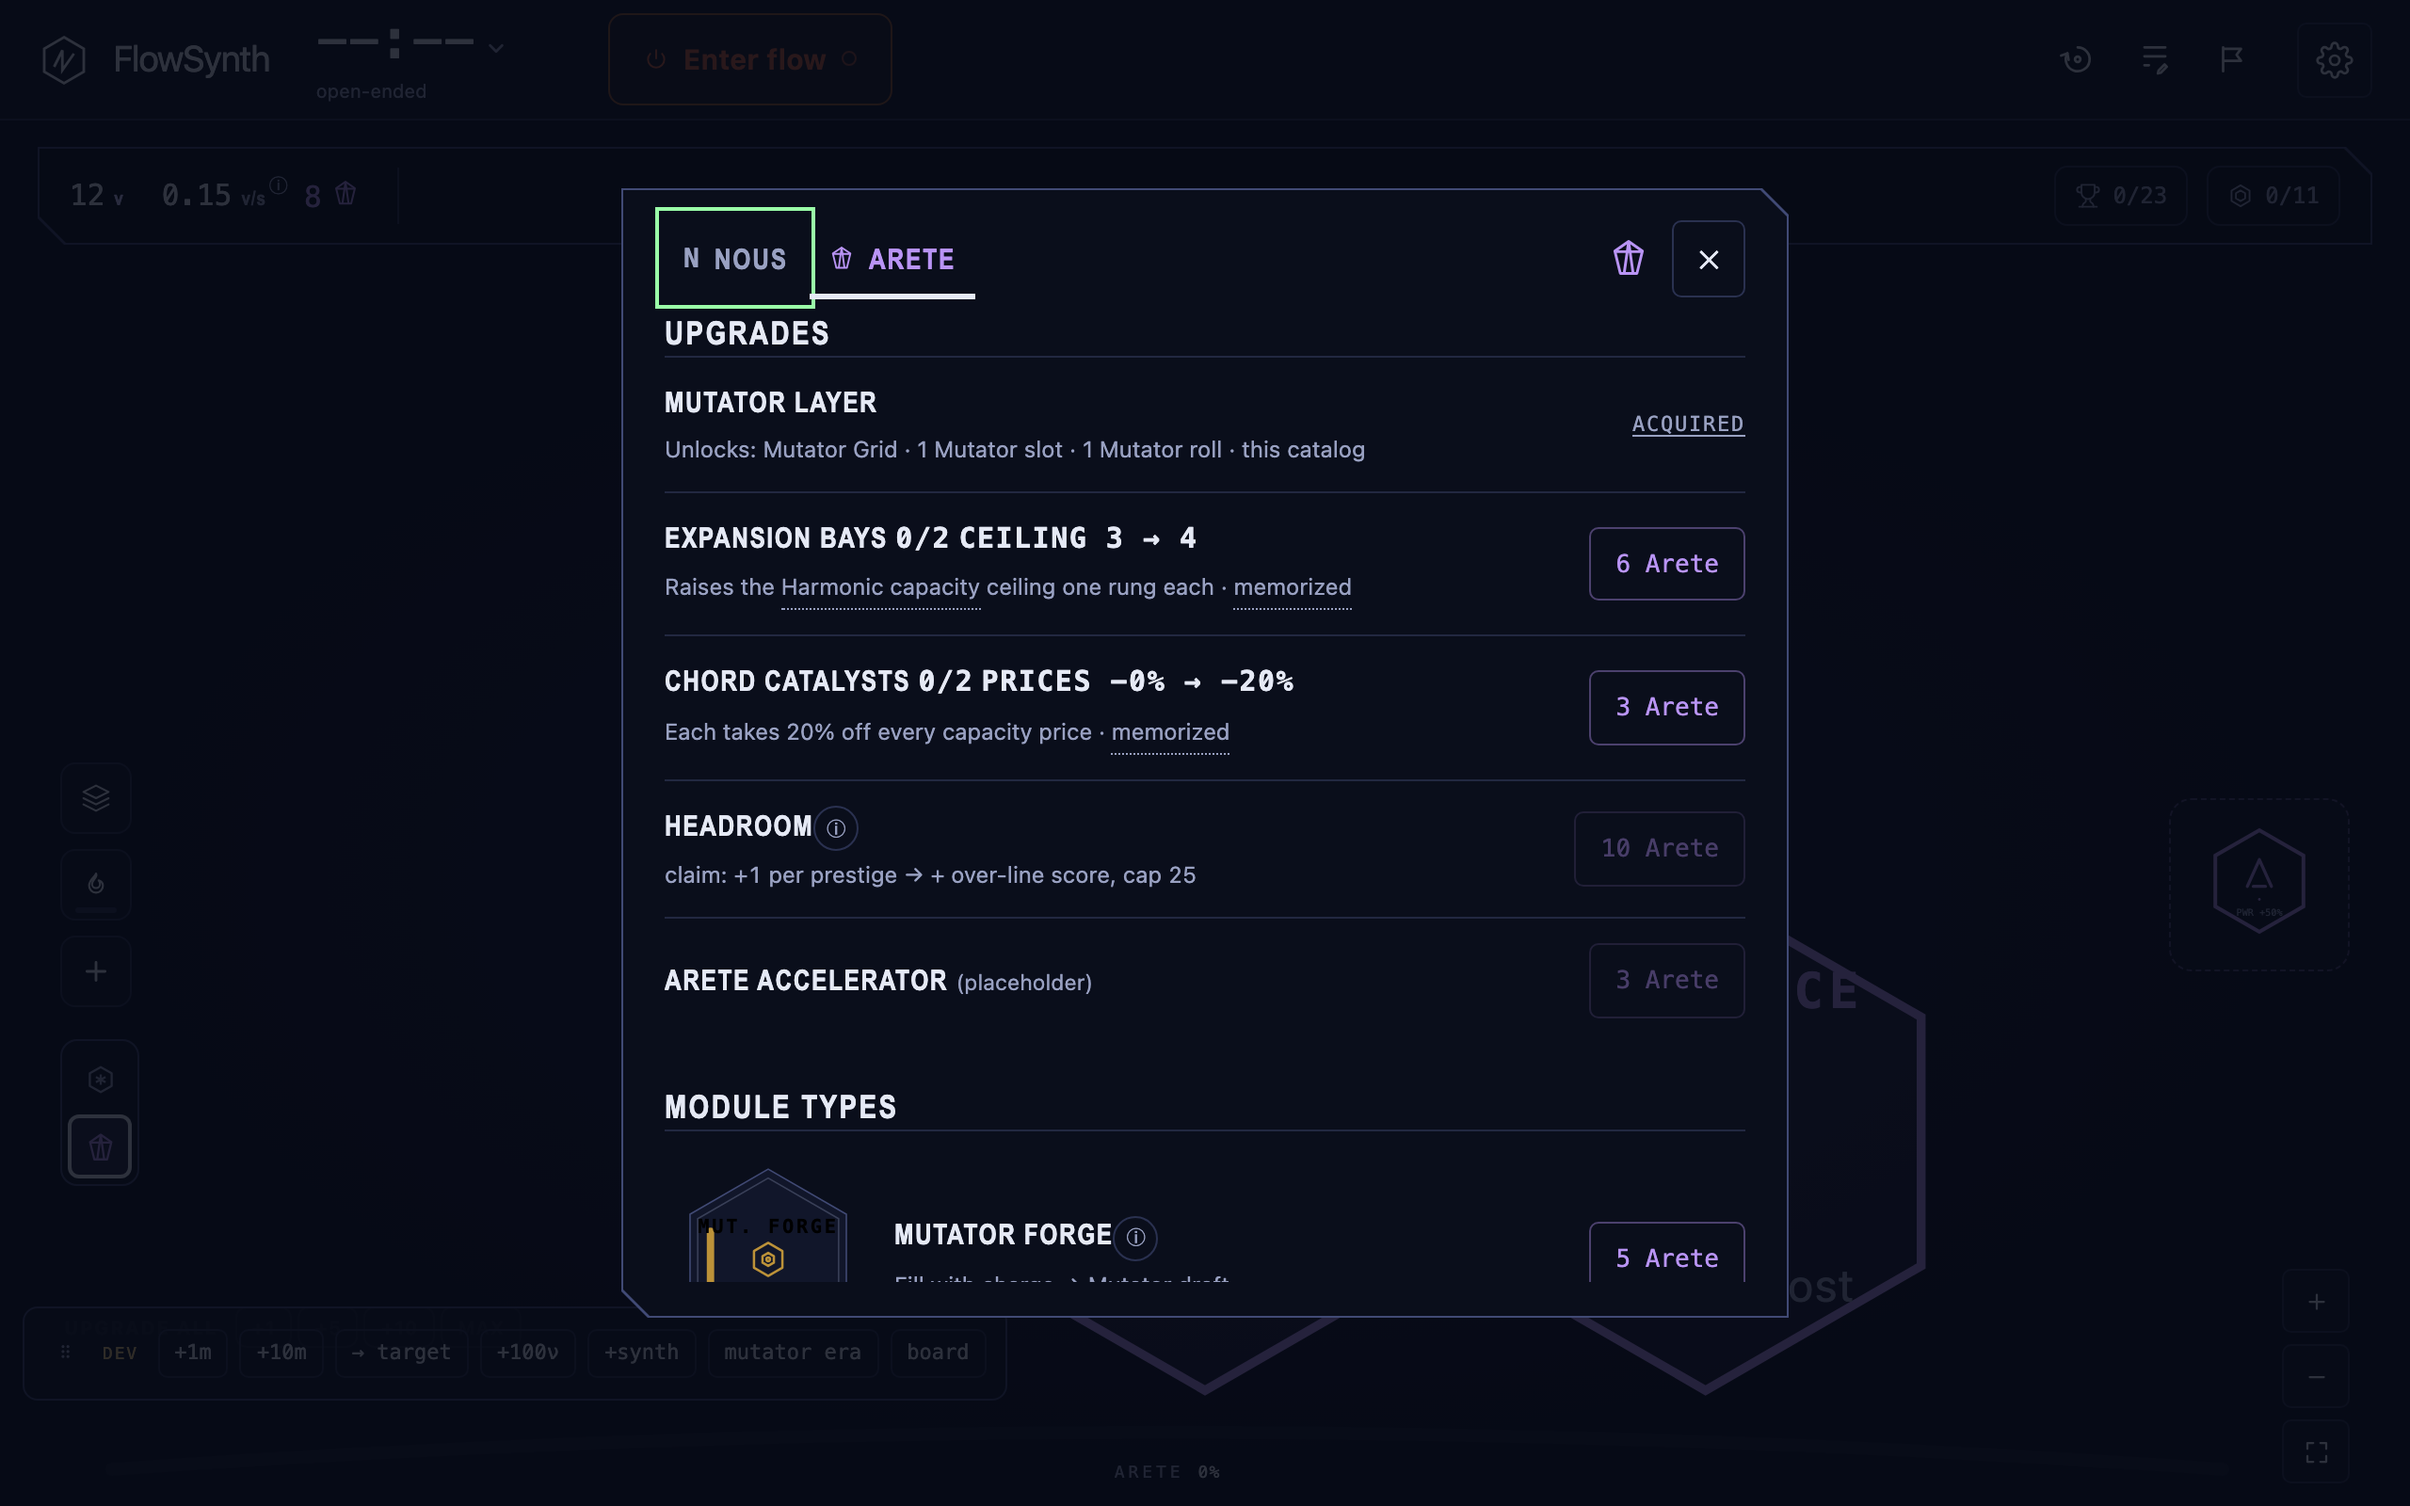
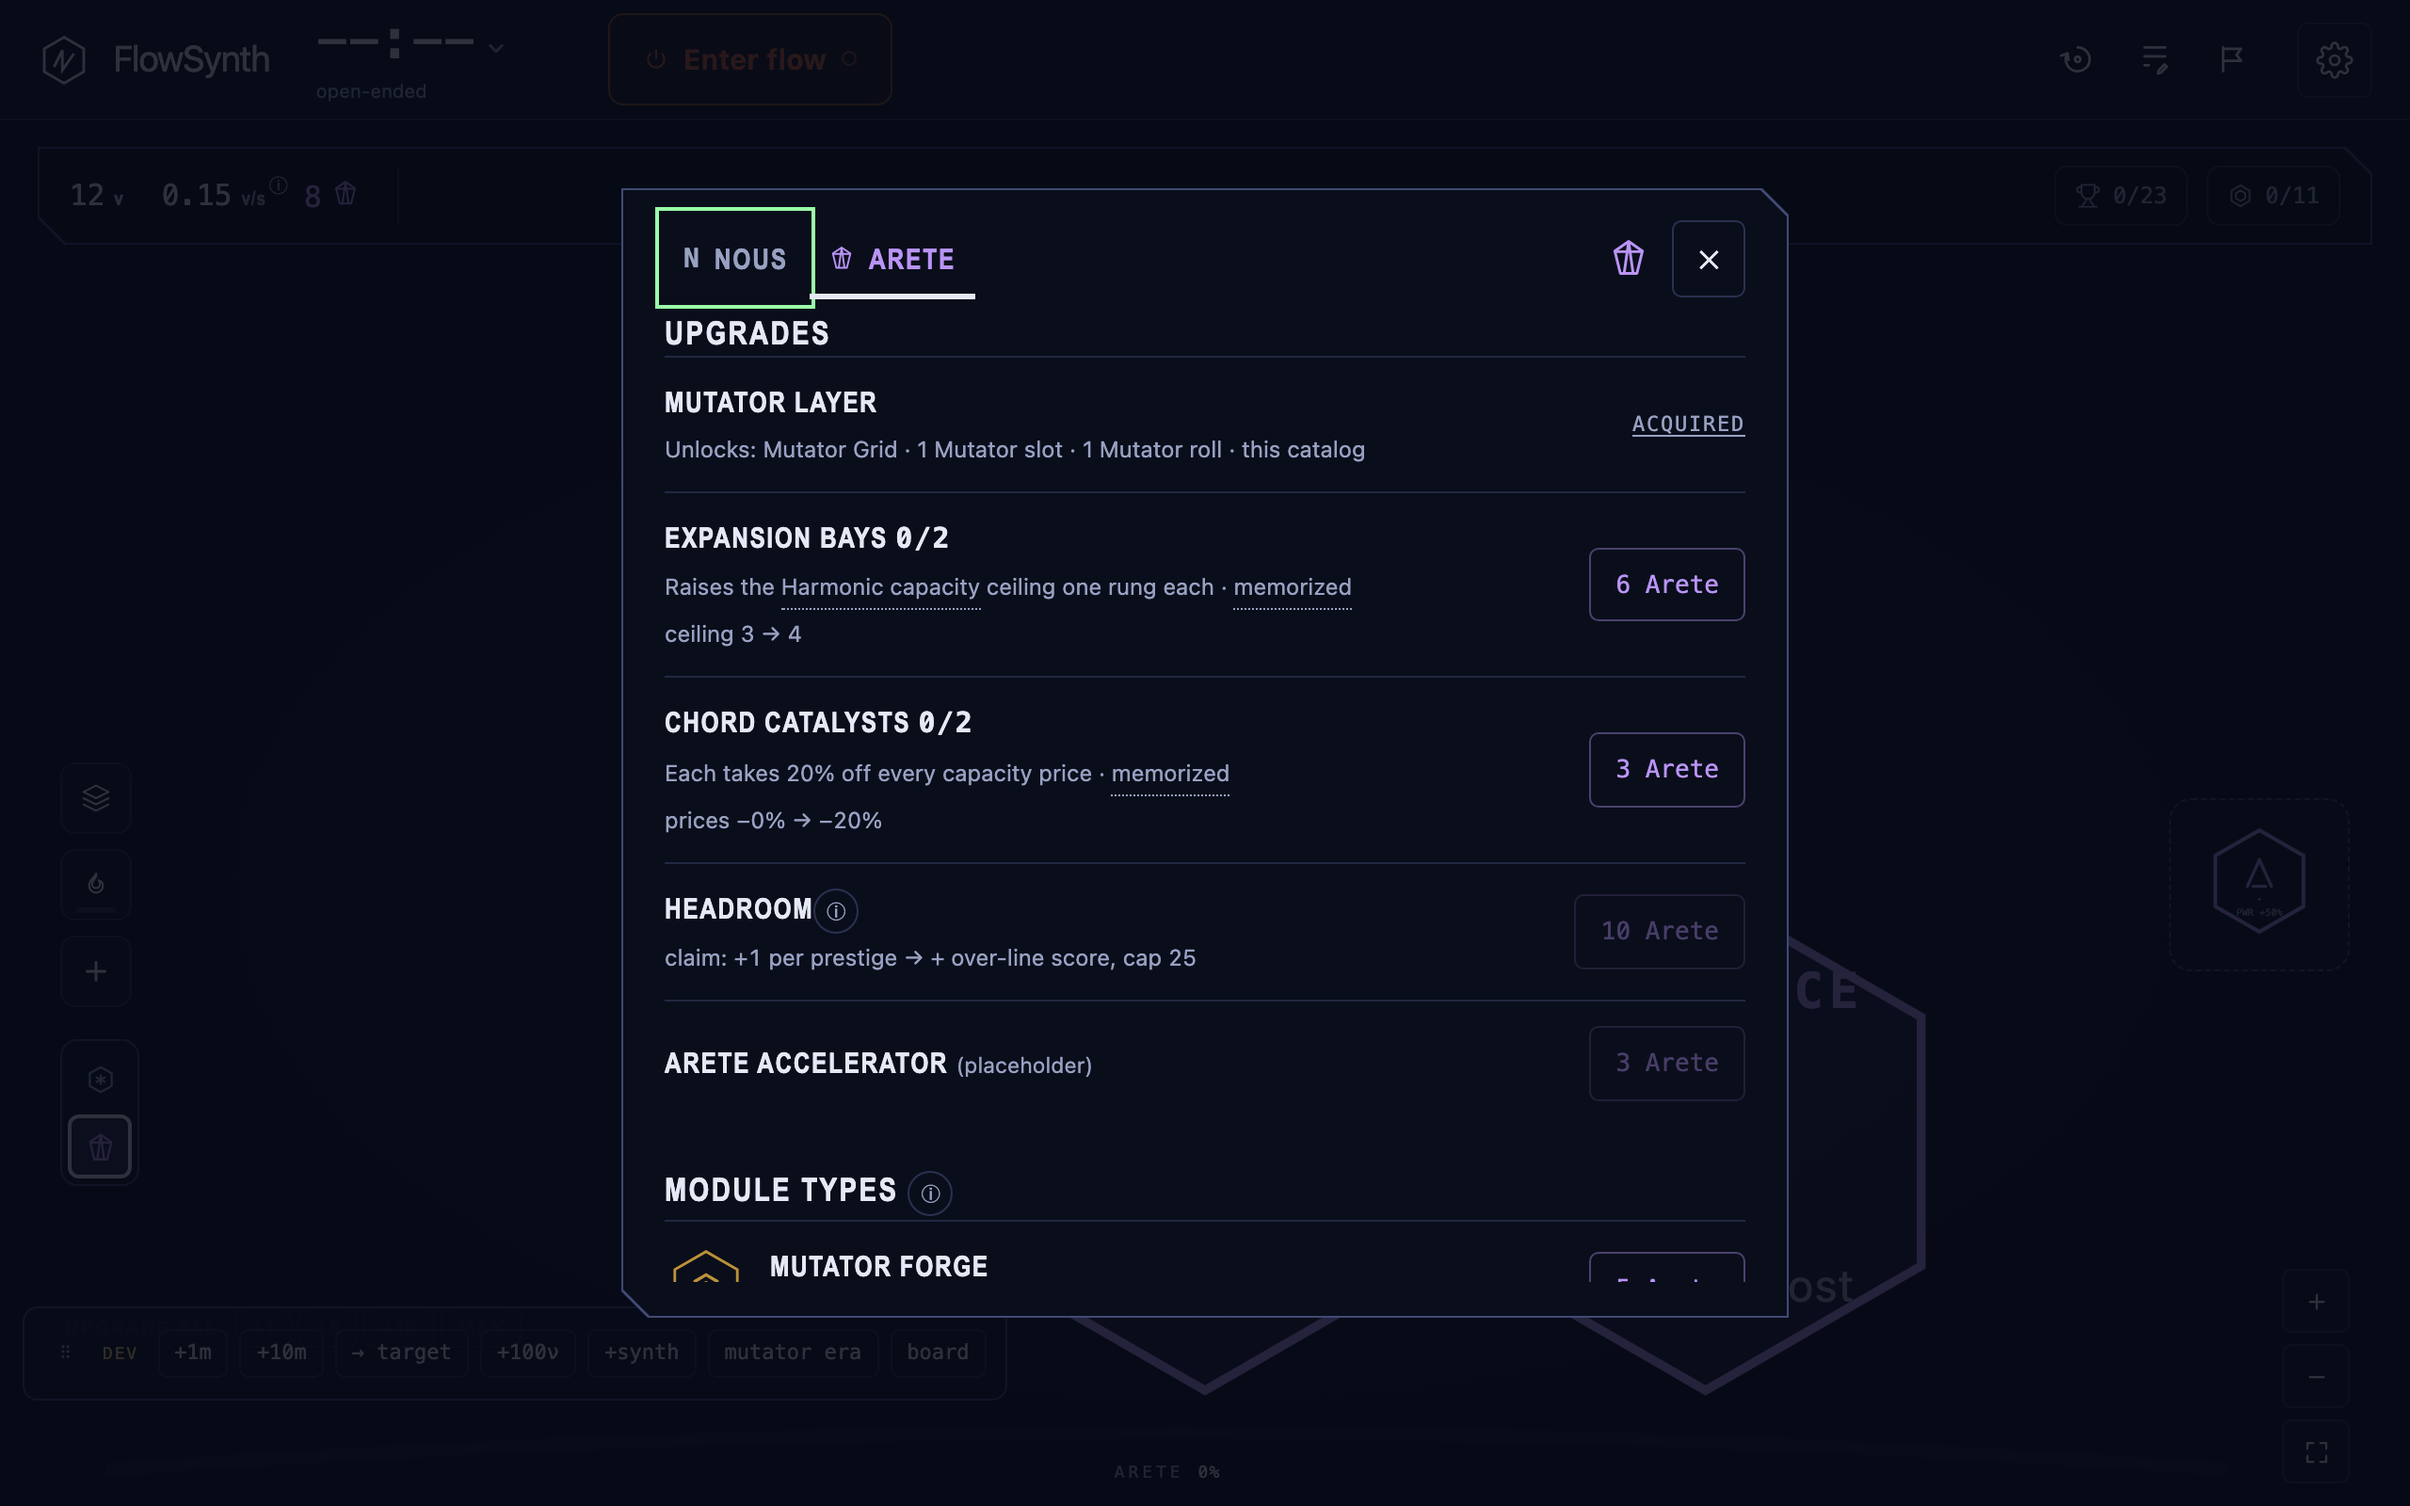
Evidence for the delta-line and preview pass

diff --git a/docs/evidence/310-catalog-products/README.md b/docs/evidence/310-catalog-products/README.md
@@ -16,25 +16,28 @@ entry owned, illustrative balances and ladder positions.
 ## The renamed surfaces
 
 - [Desktop nous](desktop-nous-poly-expander.png) and
-  [phone nous](phone-nous-poly-expander.png): the capacity row is headed
-  **Poly Expander**, the mono delta `1/3 → 2/3` reading the before → after,
-  and no restating small-line — the blank-module preview (a bare chassis
-  wearing `0/2`, the board's own used/total read) shows the purchase's
-  outcome instead. Price rides the buy button alone, muted here (`0 ν` in
-  the purse) with its practice countdown.
+  [phone nous](phone-nous-poly-expander.png): the nous face in register —
+  starter-shelf rows carry the simplified module preview (the tray tile's
+  category-hued hex and glyph), the capacity row is headed **Poly
+  Expander** with the mono delta `1/3 → 2/3` on its own line beside the
+  blank-module preview, and the acquisition paragraph is gone — the Show
+  acquired toggle's ⓘ glosses `Roll copies stay as combination material`.
+  Price rides the buy button alone, muted here (`0 ν` in the purse) with
+  its practice countdown.
 - [Desktop upgrades](desktop-arete-upgrades.png) and
   [phone upgrades](phone-arete-upgrades.png): the face holds two sections —
   **Upgrades** (the entry's ACQUIRED rewards line, Expansion Bays, Chord
   Catalysts, Headroom, the inert Accelerator placeholder) and **Module
-  Types**. Each product is one entry bought twice: owned figure, the mono
-  delta (`ceiling 3 → 4`, `prices −0% → −20%`), next price on the button,
-  effect line one line with hoverable terms. Headroom carries the honest
-  delta — the claim rule with its cap figure, since the next era's
-  over-line score is not knowable at purchase.
+  Types**. Each product is one entry bought twice: owned figure on the
+  heading, one effect line with hoverable terms, and the mono delta on its
+  own line (`ceiling 3 → 4`, `prices −0% → −20%`, Headroom's honest
+  `claim: +1 per prestige → + over-line score, cap 25` — the next era's
+  over-line score is not knowable at purchase).
 - [Module types](desktop-arete-module-types.png) and
-  [phone module types](phone-arete-module-types.png): the Mutator Forge
-  pool join previews the module's own face — chassis, glyph, nameplate,
-  readout — beside the name and the one-line `Fill with charge → Mutator
+  [phone module types](phone-arete-module-types.png): the section heading
+  carries the ⓘ — `Rolled module types appear here unweighted` holds for
+  everything the section collects — and the Mutator Forge join previews
+  the simplified mark beside the one-line `Fill with charge → Mutator
   draft`; no mechanics prose paragraph.
 - [Complete](desktop-arete-complete.png): sold-out ladders end in the
   engraved owned-words (`raised`, `catalyzed`); Headroom complete reads
